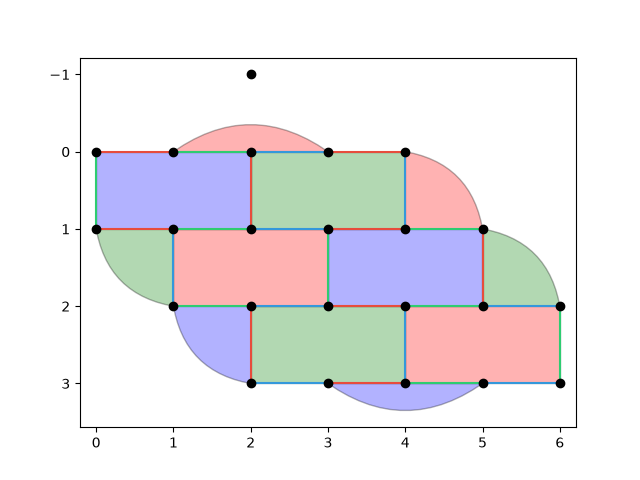
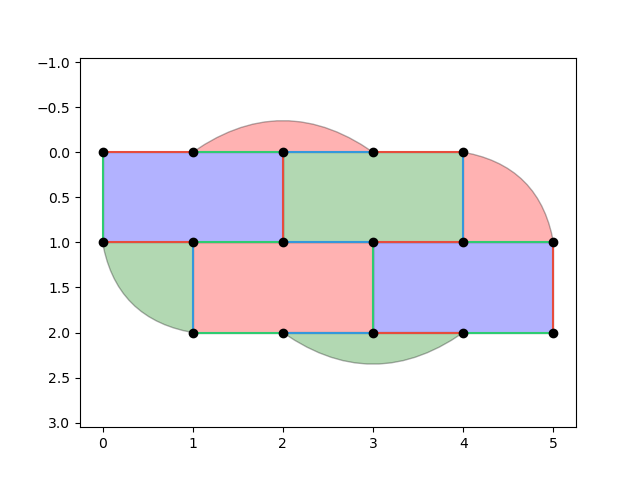
testing graph error distance on perfect injection

diff --git a/CSS_honeycomb/testing/codespace_distance.py b/CSS_honeycomb/testing/codespace_distance.py
@@ -1,0 +1,129 @@
+"""Graphlike distance after an ideal injection into the codespace.
+
+Four noiseless rounds (bZ, rX, gZ, bX) prepare the 5x3 lattice and inject the
+T state. One six-round cycle then runs with Hadamard, CNOT, measurement, and
+idle noise from error_model.json. Preparation noise stays off, including the
+ancilla resets inside each measurement round, which share that channel.
+
+The distance is the same search as testing/simulation.ipynb: drop detector-free
+faults, then len(shortest_graphlike_error()).
+"""
+
+from __future__ import annotations
+
+import sys
+from pathlib import Path
+
+import stim
+
+ROOT = Path(__file__).resolve().parents[1]
+sys.path.insert(0, str(ROOT))
+
+from honeycomb import CSSHoneycomb
+
+IDEAL = ("bZ", "rX", "gZ", "bX")
+NOISY = ("rZ", "gX", "bZ", "rX", "gZ", "bX")
+COLOUR = {"r": "red", "g": "green", "b": "blue"}
+ALL_FLAGS = (
+    "initialisation_error",
+    "hadamard_error",
+    "cnot_error",
+    "measurement_error",
+    "idling_error",
+)
+# Ancilla resets use initialisation_error, so that flag stays off.
+ROUND_FLAGS = (
+    "hadamard_error",
+    "cnot_error",
+    "measurement_error",
+    "idling_error",
+)
+
+
+def _set_flags(model, enabled: tuple[str, ...]) -> None:
+    for key in ALL_FLAGS:
+        model.config[key] = key in enabled
+
+
+def _measurement_rounds(honey: CSSHoneycomb, cycle: tuple[str, ...]) -> str:
+    string = ""
+    for token in cycle:
+        colour = COLOUR[token[0]]
+        flavour = token[-1]
+        string += f"#{colour}{flavour}\n"
+        string += honey.get_measurement(colour, flavour) + "\n"
+        string += honey.tick()
+    return string
+
+
+def build_circuit() -> stim.Circuit:
+    """Ideal injection, then one noisy six-round cycle, then a noiseless readout."""
+    honey = CSSHoneycomb(
+        ncols=5,
+        nrows=3,
+        error_model=str(ROOT / "error_model.json"),
+        config_filepath=str(ROOT / "config" / "5x3.json"),
+    )
+    honey.set_measurement_cycle([*IDEAL, *NOISY])
+
+    _set_flags(honey.error_model, ())
+    string = honey.initialise_circuit()
+    string += honey.prepare_qubits()
+    string += _measurement_rounds(honey, IDEAL)
+
+    _set_flags(honey.error_model, ROUND_FLAGS)
+    string += _measurement_rounds(honey, NOISY)
+
+    last = NOISY[-1]
+    noiseless = str(stim.Circuit(string).without_noise())
+    string += honey.write_logical_observable(
+        noiseless, COLOUR[last[0]], last[-1], bases=("Z", "X")
+    )
+    string += honey.final_readout()
+    return stim.Circuit(string)
+
+
+def check_noiseless(circuit: stim.Circuit, shots: int = 64) -> None:
+    """Every detector and both observables are 0 when the noise is removed."""
+    dets, obs = circuit.without_noise().compile_detector_sampler().sample(
+        shots, separate_observables=True
+    )
+    bad_dets = [i for i in range(dets.shape[1]) if dets[:, i].any()]
+    bad_obs = [i for i in range(obs.shape[1]) if obs[:, i].any()]
+    if bad_dets or bad_obs:
+        raise ValueError(
+            "Noiseless circuit is not deterministic.\n"
+            f"  detectors that fire: {bad_dets}\n"
+            f"  observables that flip: {bad_obs}"
+        )
+
+
+def effective_distance(circuit: stim.Circuit) -> int:
+    """Notebook search: shortest graphlike logical that still touches a detector."""
+    dem = circuit.detector_error_model(
+        decompose_errors=True,
+        approximate_disjoint_errors=True,
+        ignore_decomposition_failures=True,
+    )
+    clean = stim.DetectorErrorModel()
+    for inst in dem.flattened():
+        if inst.type == "error" and not any(
+            t.is_relative_detector_id() for t in inst.targets_copy()
+        ):
+            continue
+        clean.append(inst)
+
+    path = clean.shortest_graphlike_error()
+    print("effective distance:", len(path))
+    for explained in circuit.explain_detector_error_model_errors(
+        dem_filter=path, reduce_to_one_representative_error=True
+    ):
+        print(explained.dem_error_terms, "<-", explained.circuit_error_locations[0])
+    return len(path)
+
+
+if __name__ == "__main__":
+    circuit = build_circuit()
+    check_noiseless(circuit)
+    print("noiseless check ok")
+    effective_distance(circuit)
